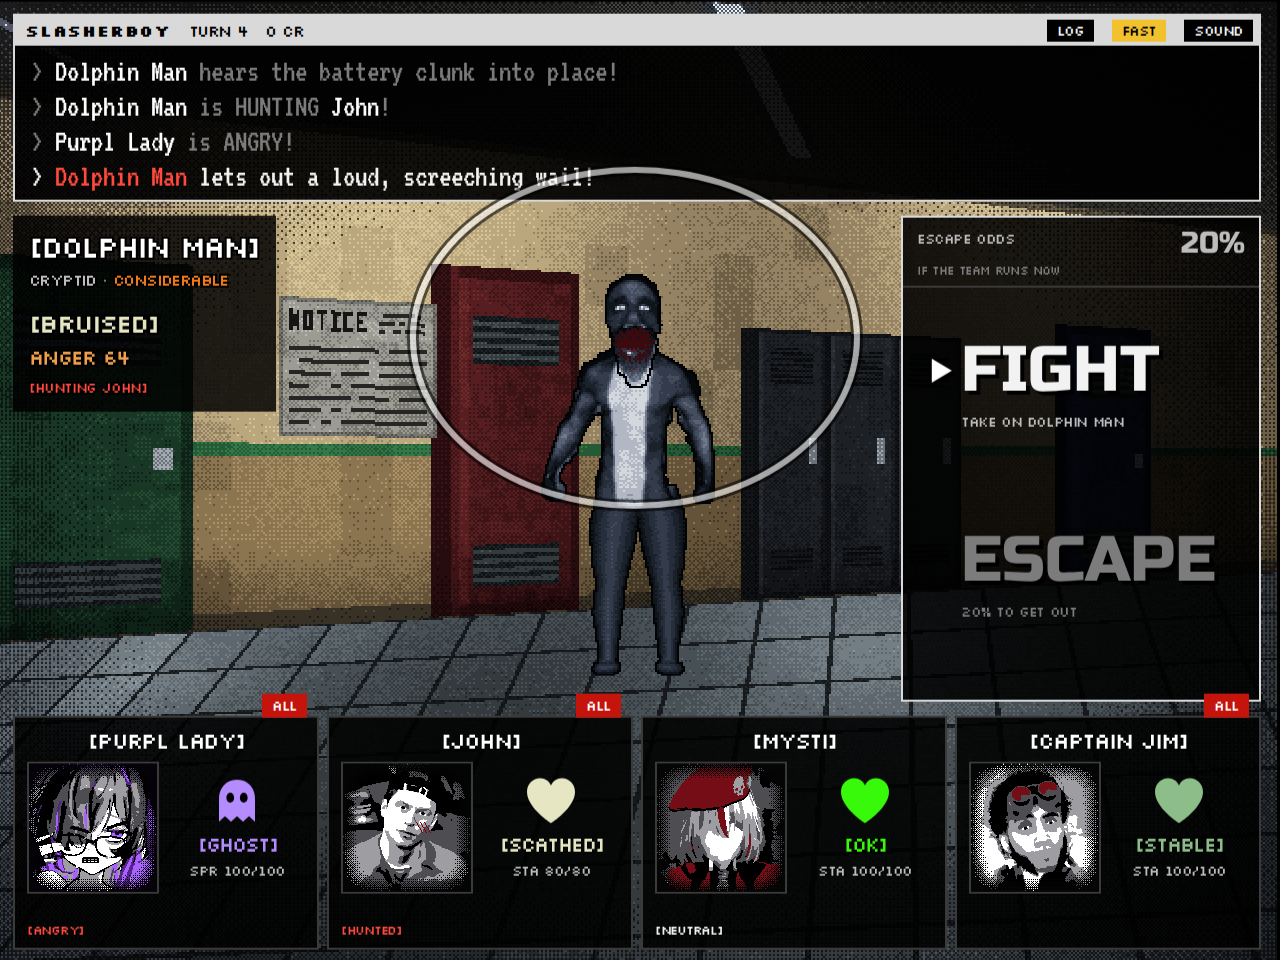
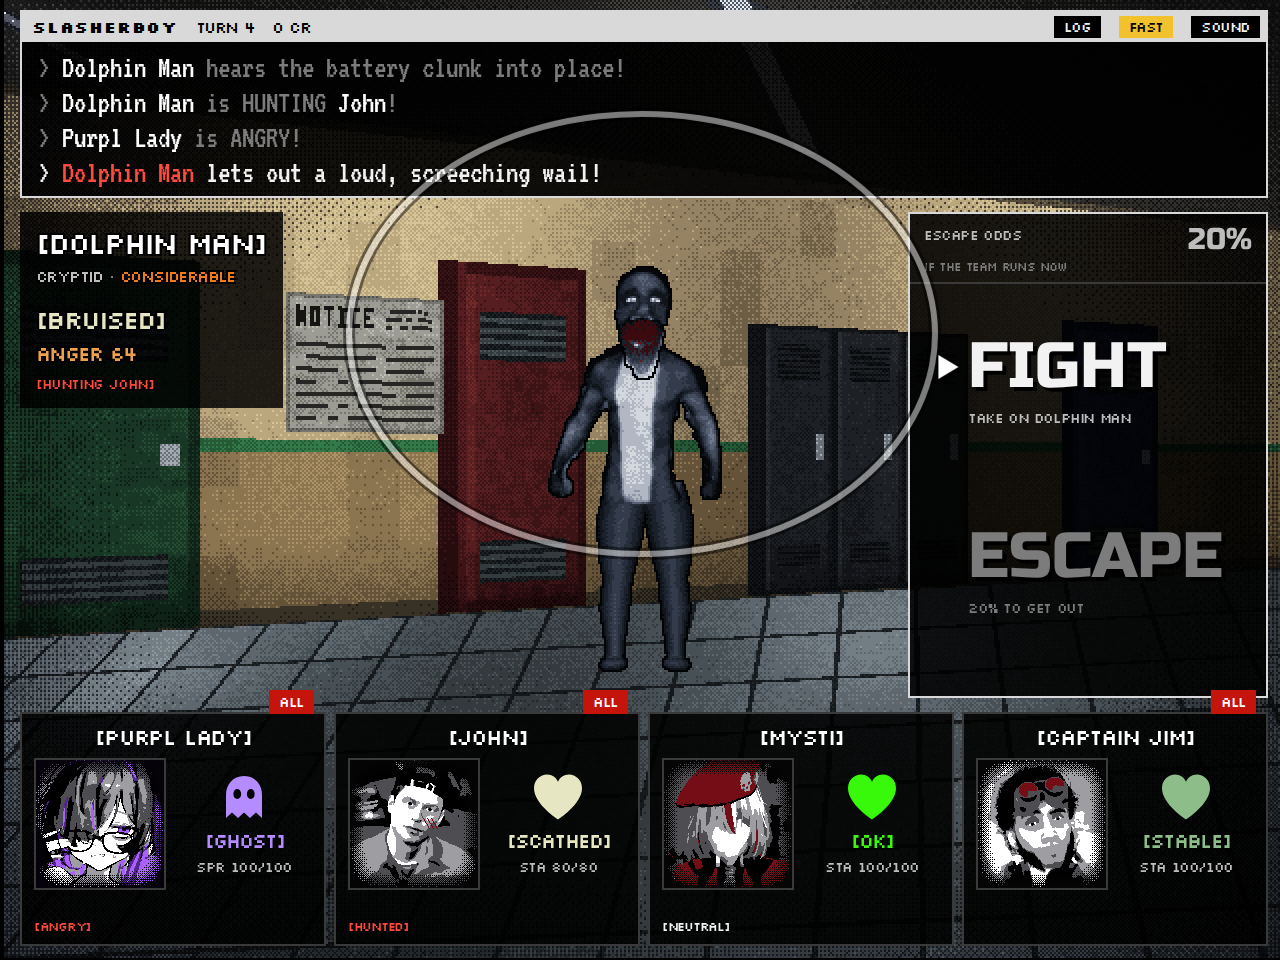
Remove Purpl Lady's mood faces
Her moods (HAPPY, ANGRY, SAD) and their Hex effects stay; her profile now
keeps her one portrait and shows the mood as a tag. The three edited
portraits and the README picture of them are gone.

Claude-Session: https://claude.ai/code/session_01H1XKNjSv2s2JZKqFuBWatk

Changed region(s): [[0.0, 0.0, 1.0, 1.0], [0.5625, 0.125, 0.625, 0.1562]]

diff --git a/js/images.js b/js/images.js
@@ -11,9 +11,6 @@
[9 lines of base64/hex data omitted]

diff --git a/js/ui.js b/js/ui.js
@@ -359,7 +359,6 @@
     let fx = [];
     let fade;
     if (u.id === 'mel' && u.flags.glassesOff) variant = 'mel_noglasses';
-    if (u.mood) variant = `${u.id}_${u.mood}`; // Purpl Lady's face: HAPPY, ANGRY or SAD
     if (u.ghost) {
       mood = 'ghost';
       if (u.status.phasing) fade = 0.28;
@@ -1774,7 +1773,7 @@
       ${HELP_FOE[enemyId()] || ''}
       ${
         has('purpl')
-          ? "<p><b>PURPL LADY'S MOODS.</b> Every turn she feels <b>HAPPY</b>, <b>ANGRY</b> or <b>SAD</b>, and her face shows it. Her <b>HEX</b> changes with it: HAPPY calms the slasher down and heals everyone a little, ANGRY does real magic damage and lowers its DEF, SAD lowers its ATK and SPD.</p>"
+          ? "<p><b>PURPL LADY'S MOODS.</b> Every turn she feels <b>HAPPY</b>, <b>ANGRY</b> or <b>SAD</b> (it's on her profile). Her <b>HEX</b> changes with it: HAPPY calms the slasher down and heals everyone a little, ANGRY does real magic damage and lowers its DEF, SAD lowers its ATK and SPD.</p>"
           : ''
       }
       ${

diff --git a/js/battle.js b/js/battle.js
@@ -767,8 +767,8 @@
       this.refresh();
     }
 
-    // Mood Swings: every turn Purpl Lady feels HAPPY, ANGRY or SAD (her face shows it, and her
-    // Hex changes with it).
+    // Mood Swings: every turn Purpl Lady feels HAPPY, ANGRY or SAD (a tag on her profile shows
+    // it, and her Hex changes with it).
     async moodSwing(u) {
       if (!u.has('moodSwings') || u.dead || u.status.phasing) return;
       u.mood = this.rng.pick(this.D.passives.moodSwings.moods);

diff --git a/tools/make_images.py b/tools/make_images.py
@@ -15,7 +15,6 @@ effects on top, so only a few source edits live here:
 
     mel_noglasses   - Mel after Toss Glasses (glasses painted out)
     john_asleep     - John during Nap (eyes closed)
-    purpl_happy / purpl_sad / purpl_angry - Purpl Lady's three moods (mouth and brows redrawn)
     sid / sid_armed - Sid's card from the doc, with and without the Desert Eagle
     trollge         - Trollge's head, for the title screen
 
@@ -193,63 +192,11 @@ def purples(min_s=120, min_v=110):
 
 def purpl():
     # Purpl Lady: black hair with violet streaks, glasses, one violet eye. She sits on the bench
-    # by default and can swap in for anyone on the title screen. Every turn she feels HAPPY,
-    # ANGRY or SAD, and her face changes with it: the edits below redraw her mouth and brows on
-    # the source, then everything is posterized with exactly the same shading as the original.
+    # by default and can swap in for anyone on the title screen.
     bgr = load('purpl.webp')
     # Her whole head, the hand at her glasses and her shoulders, not just the face.
     crop, pcts, focus = (150, 24, 550, 424), (28, 54, 80), (0.49, 0.58, 0.42, 0.5)
-    palette = GRAY + VIOLETS
-    save(poster(bgr, crop, pcts, focus, clahe=1.4, accent=purples()), palette, 'purpl')
-    cuts = poster.last_cuts
-
-    ink = (58, 34, 44)  # the art's dark violet-grey line work (BGR)
-
-    def clean(img, boxes):
-        m = np.zeros(img.shape[:2], np.uint8)
-        for x0, y0, x1, y1 in boxes:
-            cv2.rectangle(m, (x0, y0), (x1, y1), 255, -1)
-        return cv2.inpaint(img, m, 6, cv2.INPAINT_TELEA)
-
-    def line(img, pts, t):
-        cv2.polylines(img, [np.array(pts, np.int32)], False, ink, t, cv2.LINE_AA)
-
-    def arc(img, x0, x1, y, depth, t):
-        """From (x0, y) to (x1, y), bowing down by `depth` pixels in the middle (up if negative)."""
-        xs = np.linspace(x0, x1, 24)
-        ys = y + depth * (1 - ((xs - (x0 + x1) / 2) / ((x1 - x0) / 2)) ** 2)
-        line(img, list(zip(xs.astype(int), ys.astype(int))), t)
-
-    mouth, sweat = (314, 312, 370, 334), (386, 312, 404, 332)
-
-    # HAPPY: a big open smile, and a relaxed brow over the eye.
-    img = clean(bgr.copy(), [mouth, sweat])
-    smile = np.array([(318, 318), (366, 318), (360, 330), (342, 338), (324, 330)], np.int32)
-    cv2.fillPoly(img, [smile], (70, 40, 60))
-    cv2.polylines(img, [smile], True, ink, 4, cv2.LINE_AA)
-    cv2.ellipse(img, (342, 332), (9, 4), 0, 0, 360, (150, 120, 210), -1)
-    arc(img, 396, 452, 214, -6, 7)
-    save(poster(img, crop, pcts, focus, clahe=1.4, accent=purples(), cuts=cuts), palette, 'purpl_happy')
-
-    # SAD: a frown, the brow lifted at the inner end, and a tear.
-    img = clean(bgr.copy(), [mouth])
-    arc(img, 322, 362, 330, -9, 6)
-    line(img, [(398, 204), (425, 209), (452, 218)], 7)
-    cv2.ellipse(img, (438, 270), (5, 8), 0, 0, 360, (255, 245, 235), -1)
-    cv2.ellipse(img, (438, 270), (5, 8), 0, 0, 360, ink, 2, cv2.LINE_AA)
-    save(poster(img, crop, pcts, focus, clahe=1.4, accent=purples(), cuts=cuts), palette, 'purpl_sad')
-
-    # ANGRY: gritted teeth, and both brows furrowed down toward the nose.
-    img = clean(bgr.copy(), [mouth, sweat])
-    x0, y0, x1, y1 = 318, 318, 366, 331
-    cv2.rectangle(img, (x0, y0), (x1, y1), (250, 250, 252), -1)
-    cv2.rectangle(img, (x0, y0), (x1, y1), ink, 4)
-    for x in (330, 342, 354):
-        cv2.line(img, (x, y0), (x, y1), ink, 2)
-    cv2.line(img, (x0, (y0 + y1) // 2), (x1, (y0 + y1) // 2), ink, 2)
-    line(img, [(396, 224), (424, 214), (454, 206)], 8)
-    line(img, [(284, 222), (310, 228), (334, 236)], 8)
-    save(poster(img, crop, pcts, focus, clahe=1.4, accent=purples(), cuts=cuts), palette, 'purpl_angry')
+    save(poster(bgr, crop, pcts, focus, clahe=1.4, accent=purples()), GRAY + VIOLETS, 'purpl')
 
 
 def sid():

diff --git a/README.md b/README.md
@@ -66,10 +66,8 @@ strongest swap, especially against Trollge (see the numbers below), though she's
 
 ### Purpl Lady's moods
 
-![Purpl Lady happy, angry and sad](docs/purpl-moods.png)
-
-Every turn she feels **HAPPY**, **ANGRY** or **SAD** (*Mood Swings*). Her face on her profile shows it (a smile,
-gritted teeth under furrowed brows, or a frown and a tear), and her Hex (her ATTACK) changes with it:
+Every turn she feels **HAPPY**, **ANGRY** or **SAD** (*Mood Swings*). Her profile shows it as a tag, and her Hex
+(her ATTACK) changes with it:
 
 - **HAPPY**: the slasher calms down (ANGER -8) and every worker heals a little.
 - **ANGRY**: real MAGIC damage, and the slasher's DEF drops 20% for 2 turns.
@@ -256,8 +254,7 @@ means not hitting him while he's curled up.
   - Mel and John come from the SlashCo VR lobby-NPC screenshot.
   - Mysti is from her in-game render (red beret, white mask).
   - Captain Jim is from his in-game render.
-  - Purpl Lady is from her new reference, cropped to her head and shoulders (glasses, violet streaks). Her HAPPY,
-    ANGRY and SAD faces are the same portrait with the mouth and brows redrawn.
+  - Purpl Lady is from her new reference, cropped to her head and shoulders (glasses, violet streaks).
   - Trollge's title-screen card is its head, Dolphin Man's is his wailing head, and Sid's red card is the art
     from the doc.
 
